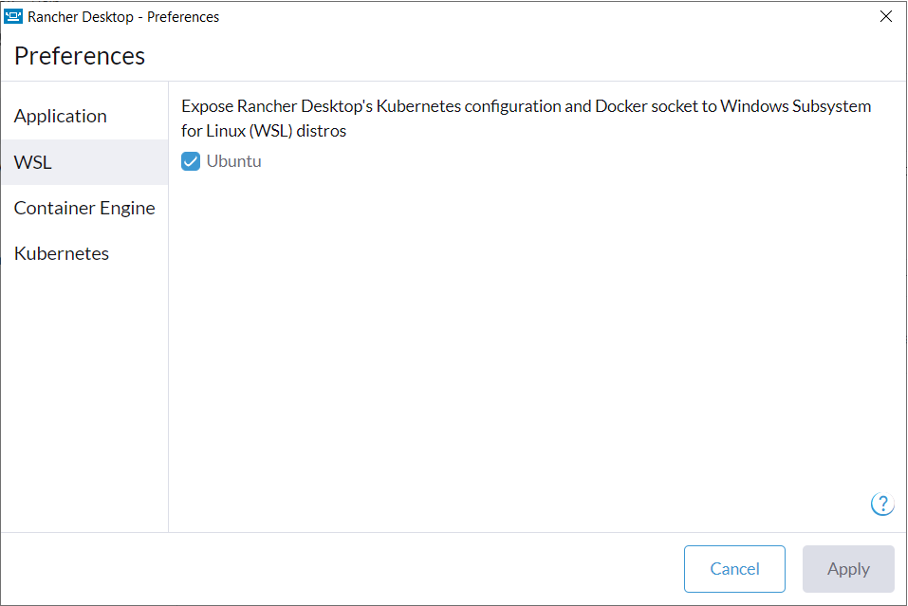
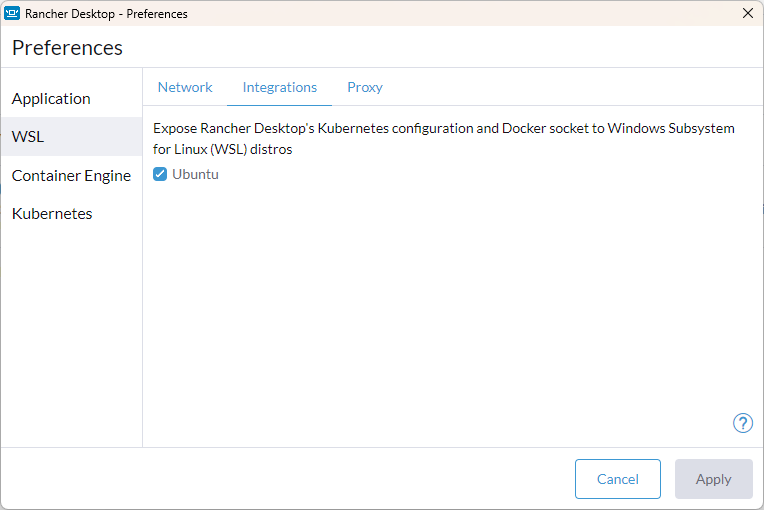
updates for using latest version of RD, updated screen shots, removed port-forwarding

diff --git a/docs/tutorials/installrancher.md b/docs/tutorials/installrancher.md
@@ -75,20 +75,30 @@ You are now ready to install Rancher Desktop.
 1. Download the latest version of the Windows installer from the [Rancher Desktop Releases](https://github.com/rancher-sandbox/rancher-desktop/releases) page.
 
     !!!note
-        The latest version fixes a serious defect that was present in 1.8. Therefore, its recommended that you upgrade from version 1.7.0.
+        We recommend installing the latest version of Rancher Desktop.  There are continuous improvments with every release.  Version 1.7.0 is known not to work well because of some port forwarding issues.  In older versions of Rancher Desktop manual port-forwarding was required to enable your Windows broswer to connect Foundry applications running in Rancher Desktop. This is not required in current versions (1.13+).
+
+2. If you are upgrading from a prior version of MXGO, we recommend resetting port forwarding **prior** to installing the latest version of Rancher Desktop by performing the following steps:
+
+    1. Open a **Windows PowerShell** as the Administrator.
+    2. Run the following command:
+
+    ```
+    netsh interface portproxy reset
+    ```
+
 
 2. Navigate to the directory where you downloaded the installer to and run the installer. This is usually the **Downloads** folder.
 3. Review the License Agreement, and then click **I Agree** to proceed with the installation.
 4. If prompted, choose between installing for everyone on the machine or installing just for the current user. Installing for everyone is preferred to installing the Rancher Desktop Privileged Service.
 5. Follow the prompts to confirm installation.
 6. When the installation completes, click **Finish** to close the installation wizard.
-7. Make sure that **Ubuntu-22.04** is selected under **WSL** in Rancher Desktop:
+7. Make sure that **Ubuntu** is selected under **WSL** in Rancher Desktop:
 
-    1. Open Rancher Desktop, and then click the **Settings** icon.
+    1. Open Rancher Desktop, and then click the **Preferences** icon on the bottom left of the Rancher Desktop application screen.
 
         ![Settings icon](../assets/images/rancherpreference1.png)
 
-    2. On the **Rancher Desktop - Preferences** dialog, click **WSL** and then select the **Ubuntu** checkbox.
+    2. On the **Rancher Desktop - Preferences** dialog, click **WSL** and then click on the **Integrations** tab.  Now select the **Ubuntu** checkbox.
 
         ![Rancher Desktop - Preferences](../assets/images/rancherpreference.png)
 
@@ -97,62 +107,6 @@ You are now ready to install Rancher Desktop.
 !!!warning "Important"
     Use an Ubuntu terminal session to run all the commands presented in the [Complete preparatory procedures](prereq.md) and the other sections. To access the Ubuntu terminal, enter "Ubuntu" in the Windows search box and select the Ubuntu for Windows App. An Ubuntu terminal session opens with your home directory set as your current directory.
 
-
-## Enable port forwarding for ports 80, 443 and 1352
-
-Rancher Desktop needs the forwarding of specific ports to WSL2. The script you need to run forwards ports 80, 443, and 1352 on all network interfaces to WSL2.
-
-!!!note
-    Make sure Ubuntu is running before proceeding and also **stop** Rancher Desktop. If Rancher Desktop isn't stopped for this step, you may experience problems connecting to your Foundry and Domino deployments.
-
-**Prerequisite**
-
-You have already downloaded and saved the port forwarding script `mxgo-port-forwarding.ps1`. For more information, see [Download HCL Volt MX GO Release package](portaldownload.md).
-
-**To enable port forwarding**
-
-1. Open a **Windows PowerShell** as the Administrator.
-2. Run the following command and answer `A` when prompted.
-
-    ```
-    Set-ExecutionPolicy -ExecutionPolicy Unrestricted -Scope CurrentUser
-    ```
-
-3. Change to the directory where you downloaded the script and run it as follows:
-
-    ```
-    .\mxgo-port-forwarding.ps1
-    ```
-
-4. Run the following command to confirm that ports 80, 443, and 1352 are being forwarded:
-
-    ```
-    netsh interface portproxy show all
-    ```
-
-    The output should appear as follows:
-
-    ![Port confirmation result](../assets/images/portforwarding.png)
-
-5. Close the **Windows PowerShell**.
-6. Restart Rancher Desktop.
-
-!!!note
-    Repeat the steps if either of the following occurs:
-
-    - Rancher Desktop stops and restarts.
-    - WSL instances stop and restart.
-
-## Reset port forwarding for ports 80, 443 and 1352
-
-If you need to reset (disable or stop) port forwarding for ports 80, 443, and 1352, perform the following steps:
-
-1. Open a **Windows PowerShell** as the Administrator.
-2. Run the following command:
-
-    ```
-    netsh interface portproxy reset
-    ```
 
 ## Additional information
 
